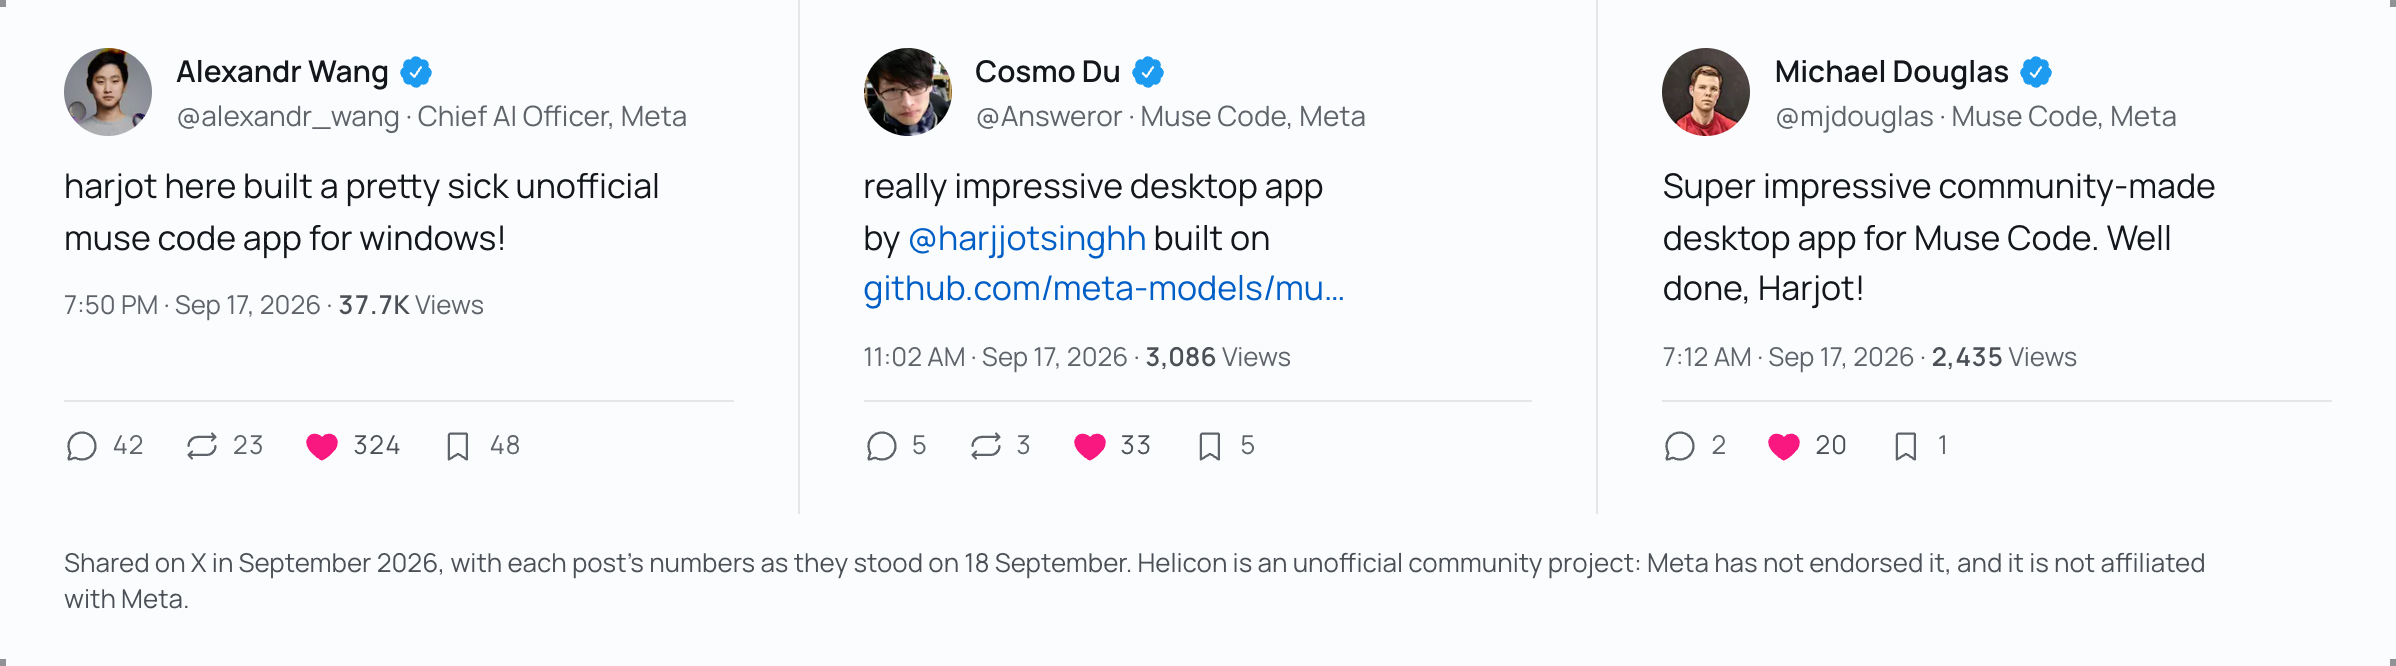
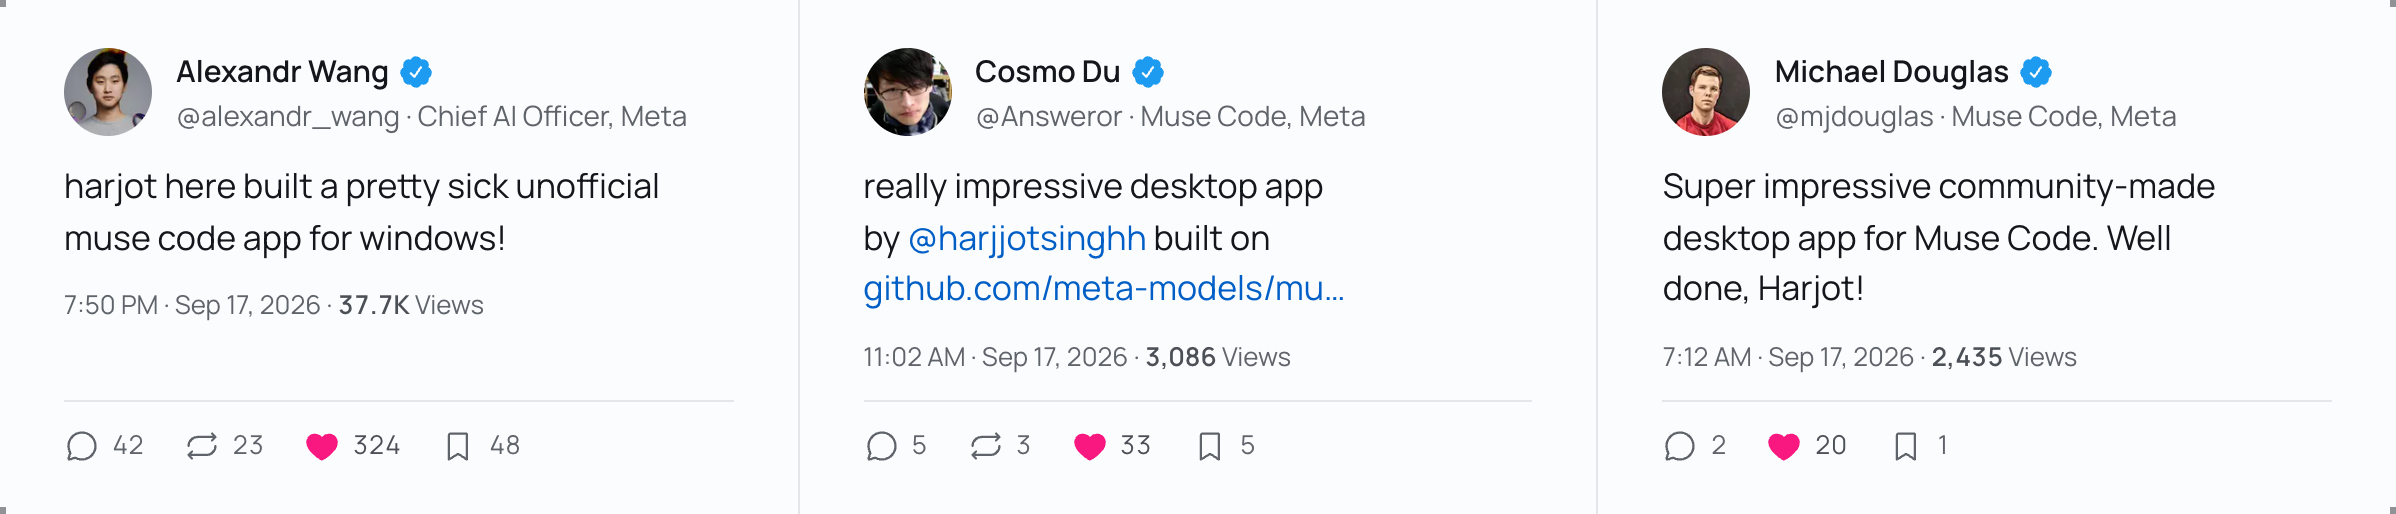
Make the post cards clickable, and show the star count beside GitHub links
The whole card is the link now, so a click anywhere on it opens that post;
the inner links are gone, since a link cannot sit inside a link. The caption
strip under the cards goes too, leaving the hero's own unaffiliated line to
say it.

Every link to the repository also carries its star count: the header, the
hero and closing buttons, and the footer. It comes from one cached GitHub
call refreshed every five minutes, and renders nothing at all when GitHub
cannot be read, rather than a zero.

Claude-Session: https://claude.ai/code/session_01RPyfN2QkMxig2U3zAGG8En

diff --git a/landing/src/components/shared-by.tsx b/landing/src/components/shared-by.tsx
@@ -99,7 +99,17 @@ function Metric({ icon, value, className }: { icon: ReactNode; value: string; cl
 
 function PostCard({ post }: { post: Post }) {
   return (
-    <article className="flex flex-col gap-3 bg-bg px-5 py-6 sm:px-8">
+    <article className="relative flex flex-col gap-3 bg-bg px-5 py-6 transition-colors duration-150 hover:bg-sunken sm:px-8">
+      <TrackedLink
+        href={post.url}
+        placement="shared_by"
+        eventLabel={post.name}
+        target="_blank"
+        rel="noopener noreferrer"
+        className="absolute inset-0 rounded-[2px] focus-visible:outline-2 focus-visible:outline-offset-[-2px] focus-visible:outline-accent"
+      >
+        <span className="sr-only">Read {post.name}&rsquo;s post on X</span>
+      </TrackedLink>
       <header className="flex items-center gap-3">
         {/* Local copies: the cards keep working whether or not X serves the images. */}
         <Image
@@ -110,17 +120,10 @@ function PostCard({ post }: { post: Post }) {
           className="size-11 shrink-0 rounded-full bg-sunken object-cover"
         />
         <div className="min-w-0">
-          <TrackedLink
-            href={post.url}
-            placement="shared_by"
-            eventLabel={post.name}
-            target="_blank"
-            rel="noopener noreferrer"
-            className="flex items-center gap-1 text-[15px] font-semibold text-fg underline-offset-4 hover:underline"
-          >
+          <span className="flex items-center gap-1 text-[15px] font-semibold text-fg">
             <span className="truncate">{post.name}</span>
             <Verified />
-          </TrackedLink>
+          </span>
           <span className="block truncate text-[14px] text-subtle">
             @{post.handle} · {post.role}
           </span>
@@ -129,16 +132,9 @@ function PostCard({ post }: { post: Post }) {
 
       <p className="text-[15px] leading-[1.5] text-fg sm:text-[17px]">{post.body}</p>
 
-      <TrackedLink
-        href={post.url}
-        placement="shared_by_time"
-        eventLabel={`${post.name} post`}
-        target="_blank"
-        rel="noopener noreferrer"
-        className="text-[13px] text-subtle underline-offset-4 hover:underline"
-      >
+      <p className="text-[13px] text-subtle">
         {post.at} · <span className="font-semibold text-muted tabular-nums">{post.views}</span> Views
-      </TrackedLink>
+      </p>
 
       <footer className="mt-auto flex items-center gap-5 border-t border-line pt-3">
         <Metric icon={<ChatCircle aria-hidden="true" className="size-[18px]" />} value={post.replies} />
@@ -158,16 +154,12 @@ function PostCard({ post }: { post: Post }) {
 
 export function SharedBy() {
   return (
-    <section aria-labelledby="shared-by-note" className="bg-bg">
+    <section aria-label="What people at Meta said about Helicon" className="bg-bg">
       <CellGrid className="lg:grid-cols-3">
         {POSTS.map((post) => (
           <PostCard key={post.handle} post={post} />
         ))}
       </CellGrid>
-      <p id="shared-by-note" className="px-5 pt-4 pb-6 text-[13px] leading-snug text-muted sm:px-8">
-        Shared on X in September 2026, with each post&rsquo;s numbers as they stood on 18 September. Helicon is an
-        unofficial community project: Meta has not endorsed it, and it is not affiliated with Meta.
-      </p>
     </section>
   );
 }

diff --git a/landing/src/app/page.tsx b/landing/src/app/page.tsx
@@ -12,7 +12,7 @@ import { DemoApp } from "@/demo/demo-app";
 import { Rule } from "@/components/ui";
 import { StructuredData } from "@/components/structured-data";
 import { getPageCopy } from "@/lib/copy";
-import { latestRelease } from "@/lib/github-release";
+import { latestRelease, repoStars } from "@/lib/github-release";
 import { getVisitorOs } from "@/lib/visitor";
 
 const shots: TourShot[] = [
@@ -61,7 +61,7 @@ const shots: TourShot[] = [
 export const dynamic = "force-dynamic";
 
 export default async function Page() {
-  const [os, release] = await Promise.all([getVisitorOs(), latestRelease()]);
+  const [os, release, stars] = await Promise.all([getVisitorOs(), latestRelease(), repoStars()]);
   const copy = getPageCopy(os);
   const version = release?.version ?? null;
   return (
@@ -73,9 +73,9 @@ export default async function Page() {
         Skip to content
       </a>
       <div className="page-frame relative mx-auto min-h-dvh w-full max-w-[1200px] border-line bg-bg max-[360px]:border-x-0 min-[361px]:w-[calc(100%-1rem)] min-[361px]:border-x sm:w-[calc(100%-3rem)] pb-[env(safe-area-inset-bottom)]">
-        <SiteHeader copy={copy} />
+        <SiteHeader copy={copy} stars={stars} />
         <main id="main" className="relative z-0">
-          <Hero copy={copy} version={version} notesUrl={release?.notesUrl ?? ""} />
+          <Hero copy={copy} version={version} notesUrl={release?.notesUrl ?? ""} stars={stars} />
           <Rule />
           <Features title={copy.featuresTitle} body={copy.featuresBody} />
           <Rule />
@@ -89,10 +89,10 @@ export default async function Page() {
           <Rule />
           <Faq audience={copy.audience} intro={copy.faqIntro} />
           <Rule />
-          <ClosingCta copy={copy} />
+          <ClosingCta copy={copy} stars={stars} />
           <Rule />
         </main>
-        <SiteFooter />
+        <SiteFooter stars={stars} />
       </div>
       <StructuredData version={version} />
     </>

diff --git a/landing/src/components/site-footer.tsx b/landing/src/components/site-footer.tsx
@@ -13,8 +13,9 @@ import { Logo, buttonClass } from "./ui";
 import { ThemeToggle } from "./theme-toggle";
 import { CtaRow } from "./cta-row";
 import { TrackedLink } from "./tracked-link";
+import { StarCount } from "./star-count";
 
-export function ClosingCta({ copy }: { copy: PageCopy }) {
+export function ClosingCta({ copy, stars = null }: { copy: PageCopy; stars?: number | null }) {
   const primary = closingCta(copy);
   return (
     <section aria-labelledby="cta-title">
@@ -40,6 +41,7 @@ export function ClosingCta({ copy }: { copy: PageCopy }) {
           <CtaRow
             placement="closing"
             ctas={[primary, { label: "View source", href: REPO_URL, kind: "outline", external: true }]}
+            stars={stars}
             className="flex w-full max-w-sm flex-col gap-3 sm:max-w-none sm:w-auto sm:flex-row sm:flex-wrap sm:justify-center"
           />
         </div>
@@ -67,7 +69,7 @@ const groups = [
   },
 ];
 
-export function SiteFooter() {
+export function SiteFooter({ stars = null }: { stars?: number | null } = {}) {
   return (
     <footer>
       <div className="grid gap-10 px-5 py-12 sm:px-8 md:grid-cols-[1fr_auto] lg:px-12">
@@ -116,6 +118,7 @@ export function SiteFooter() {
                     >
                       <Icon aria-hidden="true" className="text-subtle" />
                       {label}
+                      {href === REPO_URL ? <StarCount stars={stars} className="text-subtle" /> : null}
                       {external ? (
                         <ArrowUpRight
                           aria-hidden="true"

diff --git a/landing/src/components/site-header.tsx b/landing/src/components/site-header.tsx
@@ -13,6 +13,7 @@ import { MobileNav } from "./mobile-nav";
 import { ThemeToggle } from "./theme-toggle";
 import { Logo, Rule, buttonClass } from "./ui";
 import { TrackedLink } from "./tracked-link";
+import { StarCount } from "./star-count";
 
 const links = [
   { href: "#demo", label: "Demo", icon: MonitorPlay },
@@ -22,7 +23,7 @@ const links = [
   { href: "#faq", label: "FAQ", icon: Question },
 ];
 
-export function SiteHeader({ copy }: { copy: PageCopy }) {
+export function SiteHeader({ copy, stars = null }: { copy: PageCopy; stars?: number | null }) {
   return (
     <header className="sticky top-0 z-[210] isolate bg-bg/85 pt-[env(safe-area-inset-top)] backdrop-blur-md backdrop-saturate-150 supports-[not(backdrop-filter:blur(1px))]:bg-bg">
       <div className="relative flex h-14 items-center gap-3 px-4 sm:h-16 sm:gap-4 sm:px-8 lg:px-12">
@@ -56,11 +57,12 @@ export function SiteHeader({ copy }: { copy: PageCopy }) {
             eventLabel="GitHub"
             target="_blank"
             rel="noopener noreferrer"
-            className={buttonClass("ghost", "icon", "max-sm:hidden")}
+            className={buttonClass("ghost", "sm", "gap-1.5 max-sm:hidden")}
             aria-label="Helicon on GitHub"
             title="Helicon on GitHub"
           >
             <GitHubLogo aria-hidden="true" />
+            <StarCount stars={stars} className="text-muted" />
           </TrackedLink>
           <TrackedLink
             href={copy.headerHref}

diff --git a/landing/src/lib/github-release.ts b/landing/src/lib/github-release.ts
@@ -64,6 +64,30 @@ export const latestRelease = cache(async (): Promise<LatestRelease | null> => {
   }
 });
 
+/**
+ * The repository's star count, refreshed every five minutes. GitHub has no push feed for this, so a poll on the
+ * server is as live as it gets without a websocket nobody would notice. Null when GitHub is unreachable or
+ * rate-limits us, and every caller then renders the link with no count rather than a zero.
+ */
+export const repoStars = cache(async (): Promise<number | null> => {
+  try {
+    const res = await fetch(`https://api.github.com/repos/${repoPath}`, {
+      headers: await githubHeaders(),
+      next: { revalidate: 300 },
+    });
+    if (!res.ok) return null;
+    const body = (await res.json()) as { stargazers_count?: number };
+    return typeof body.stargazers_count === "number" ? body.stargazers_count : null;
+  } catch {
+    return null;
+  }
+});
+
+/** GitHub's own rounding: 1200 reads as 1.2k, the way the star button shows it. */
+export function formatStars(count: number): string {
+  return count >= 1000 ? `${(count / 1000).toFixed(1).replace(/\.0$/, "")}k` : String(count);
+}
+
 export async function latestInstaller(kind: InstallerKind): Promise<ReleaseAsset | null> {
   const release = await latestRelease();
   if (!release) return null;

diff --git a/landing/src/components/cta-row.tsx b/landing/src/components/cta-row.tsx
@@ -3,6 +3,7 @@ import { buttonClass } from "./ui";
 import { DownloadSimple } from "@phosphor-icons/react/ssr";
 import { AppleLogo, GitHubLogo, WindowsLogo } from "./os-logos";
 import { TrackedLink } from "./tracked-link";
+import { StarCount } from "./star-count";
 
 function Icon({ href }: { href: string; kind: Cta["kind"] }) {
   if (href.includes("github.com")) return <GitHubLogo />;
@@ -16,11 +17,13 @@ export function CtaRow({
   size = "md",
   className,
   placement,
+  stars = null,
 }: {
   ctas: Cta[];
   size?: "sm" | "md";
   className?: string;
   placement: string;
+  stars?: number | null;
 }) {
   return (
     <div className={className ?? "flex w-full flex-col gap-3 sm:w-auto sm:flex-row sm:flex-wrap"}>
@@ -36,6 +39,7 @@ export function CtaRow({
         >
           <Icon href={cta.href} kind={cta.kind} />
           {cta.label}
+          {cta.href.includes("github.com") ? <StarCount stars={stars} className="ml-0.5 text-subtle" /> : null}
         </TrackedLink>
       ))}
     </div>

diff --git a/landing/src/components/hero.tsx b/landing/src/components/hero.tsx
@@ -21,7 +21,17 @@ const windowsFacts = [
   { icon: Database, title: "Native on Windows", body: "No WSL needed, WSL2 still works" },
 ];
 
-export function Hero({ copy, version, notesUrl }: { copy: PageCopy; version: string | null; notesUrl: string }) {
+export function Hero({
+  copy,
+  version,
+  notesUrl,
+  stars = null,
+}: {
+  copy: PageCopy;
+  version: string | null;
+  notesUrl: string;
+  stars?: number | null;
+}) {
   const shown = copy.audience === "windows" ? windowsFacts : facts;
   const badge = version ? `v${version}` : "Latest";
   return (
@@ -71,7 +81,7 @@ export function Hero({ copy, version, notesUrl }: { copy: PageCopy; version: str
             </p>
           </div>
           <div>
-            <CtaRow placement="hero" ctas={copy.ctas} />
+            <CtaRow placement="hero" ctas={copy.ctas} stars={stars} />
             <p className="mt-3 text-[13px] leading-snug text-muted">
               Unofficial community project. Not affiliated with Meta.
             </p>

diff --git a/landing/src/components/star-count.tsx b/landing/src/components/star-count.tsx
@@ -1,0 +1,17 @@
+import { Star } from "@phosphor-icons/react/ssr";
+import { formatStars } from "@/lib/github-release";
+
+/** The repo's stars, beside whatever links to GitHub. Renders nothing when the count could not be read. */
+export function StarCount({ stars, className }: { stars: number | null; className?: string }) {
+  if (stars === null) return null;
+  return (
+    <span
+      className={`inline-flex items-center gap-1 text-[13px] font-medium tabular-nums ${className ?? "text-muted"}`}
+      title={`${stars.toLocaleString()} stars on GitHub`}
+    >
+      <Star weight="fill" aria-hidden="true" className="size-3.5 text-[#e3b341]" />
+      {formatStars(stars)}
+      <span className="sr-only">stars on GitHub</span>
+    </span>
+  );
+}
